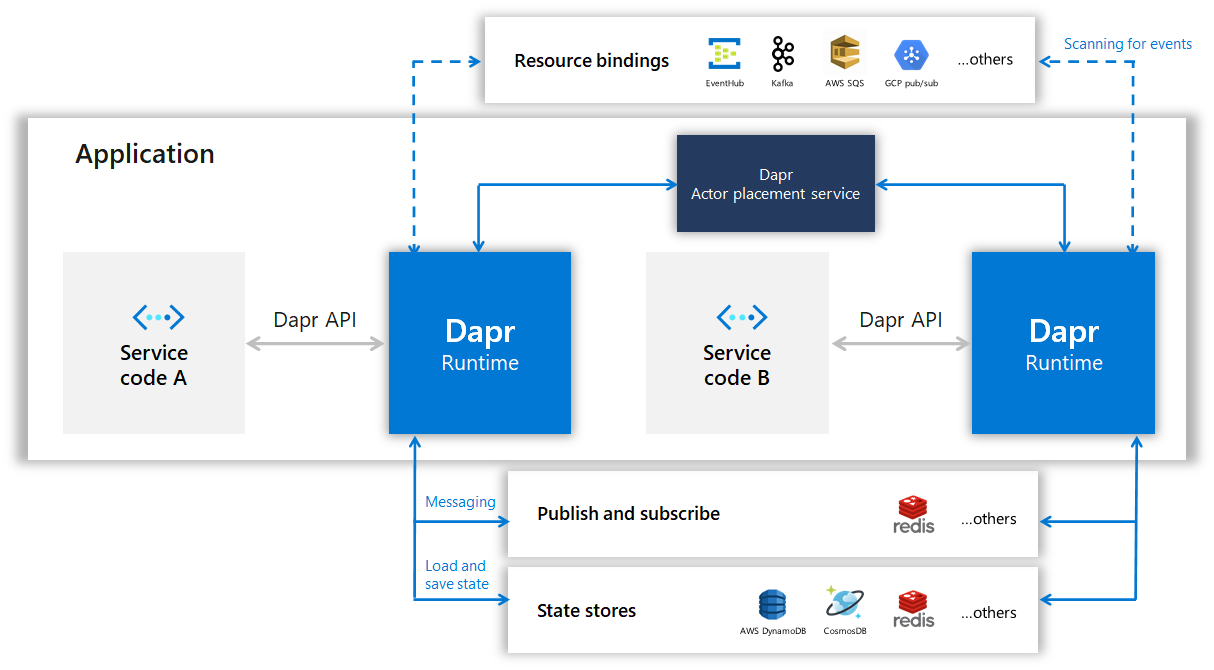
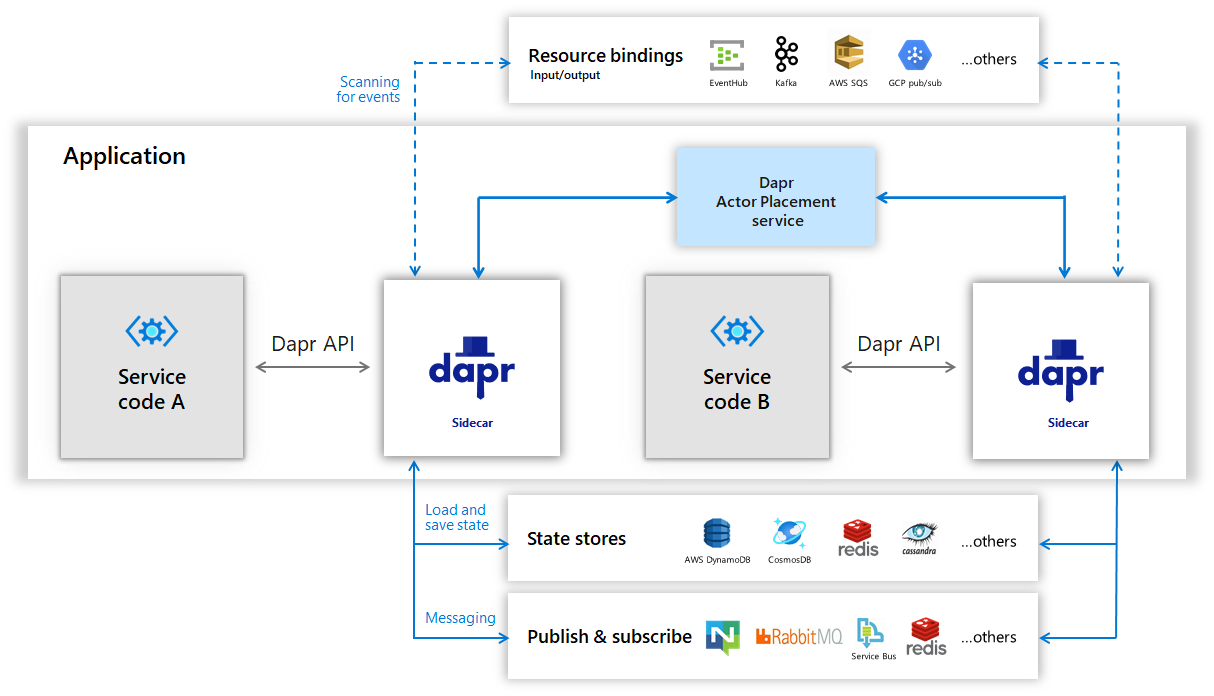
updates to overview docs and diagrams

diff --git a/overview.md b/overview.md
@@ -51,29 +51,31 @@ To make using Dapr more natural for different languages, it also includes langua
 
 Furthermore, Dapr can be integrated with any developer framework. For example, in the Dapr [.NET SDK](https://github.com/dapr/dotnet-sdk) you can find ASP.NET Core integration, which brings stateful routing controllers that respond to pub/sub events from other services.
 
-## Running Dapr on a local developer machine in Standalone mode
+## Running Dapr on a local developer machine in self hosted mode
 
-Dapr can be configured to run on your local developer machine in [Standalone mode](./getting-started). Each running service has a Dapr runtime process which is configured to use state stores, pub/sub and binding components.  
+Dapr can be configured to run on your local developer machine in [self hosted mode](./getting-started). Each running service has a Dapr runtime process which is configured to use state stores, pub/sub, binding components and the other building block. 
 
-You can use the [Dapr CLI](https://github.com/dapr/cli) to run services locally.
+In self hosted mode, Redis running locally in a container, is installed as default a state store and pub/sub message bus components.  
+
+The `dapr-placement` service is responsible for managing the actor distribution scheme and key range settings. For more information on the actor `Placement` service read [actor overview](/concepts/actor/actor_overview.md#distribution-and-failover)
 
 ![Dapr overview](images/overview_standalone.png)
 
-For more information on the actor *Placement* service see [actor overview](/concepts/actor/actor_overview.md#distribution-and-failover)
-
 ## Running Dapr in Kubernetes mode
 
-Dapr can be configured to run on any [Kubernetes cluster](https://github.com/dapr/samples/tree/master/2.hello-kubernetes). In Kubernetes the *dapr-sidecar-injector* and *dapr-operator* services provide first class integration to launch Dapr as a sidecar container in the same pod as the service and provides notifications of Dapr component updates provisioned into the cluster.
+Dapr can be configured to run on any [Kubernetes cluster](https://github.com/dapr/samples/tree/master/2.hello-kubernetes). In Kubernetes the `dapr-sidecar-injector` and `dapr-operator` services provide first class integration to launch Dapr as a sidecar container in the same pod as the service and provide notifications of Dapr component updates provisioned into the cluster. 
+
+The `dapr-sentry` service is a certificate authority that enables mutual TLS between Dapr sidecar instances for secure data encryption. For more information on the `Sentry` service read the [security overview](/concepts/security/security.md#dapr-to-dapr-communication)
 
 ![Dapr overview](images/overview_kubernetes.png)
 
-For more information on the actor *Placement* service see [actor overview](/concepts/actor/actor_overview.md#distribution-and-failover)
 
-In order to give your service an id and port known to Dapr and launch the Dapr sidecar container, you simply annotate your deployment like this.
-
+Deploying a Dapr enabled application into your kubernetes cluster is a simple as adding a few annotations to the deployment schemes. To give your service an id and port known to Dapr, turn on tracing information and launch the Dapr sidecar container, you annotate your deployment like this. 
 ```yml
   annotations:
     dapr.io/enabled: "true"
     dapr.io/id: "nodeapp"
     dapr.io/port: "3000"
+    dapr.io/config: "tracing"
 ```
+You can see some examples [here](https://github.com/dapr/samples/tree/master/2.hello-kubernetes/deploy) in the kubernetes getting started guide.
